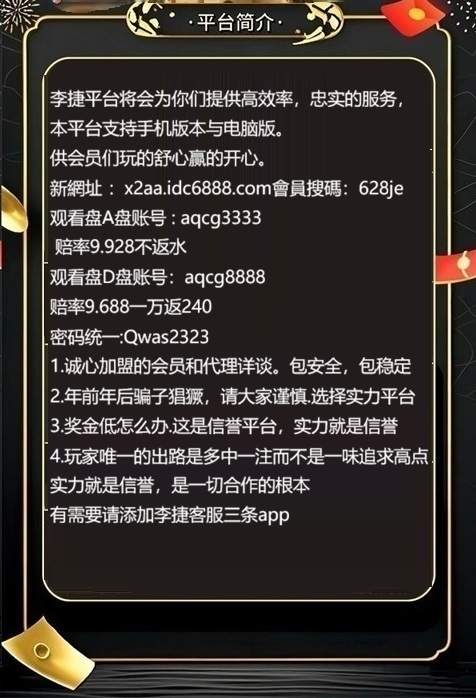
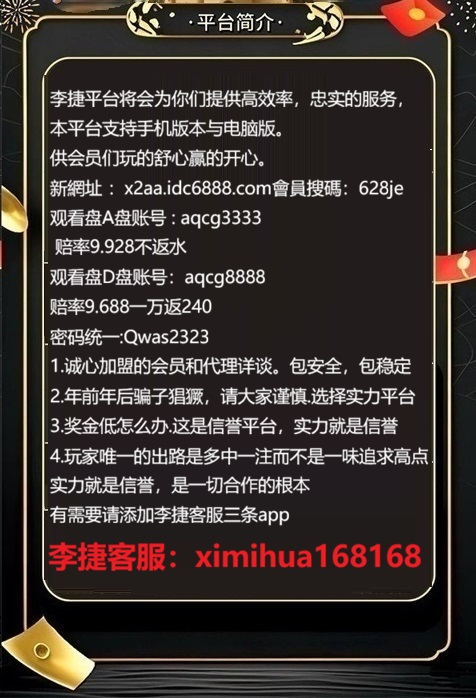
Add files via upload

Changed region(s): [[0.0882, 0.7521, 0.3824, 0.8424], [0.4118, 0.7521, 0.8824, 0.8123]]

diff --git a/index.html b/index.html
@@ -305,7 +305,7 @@
                                     <a
                                         class="kf-item" href="javascript:;"><img class="icon1" src="./skin/2a33227e485644ec9c723710b4847416.png" alt="">
                                         <div class="cont">
-                                            <p class="name">微信：</p>
+                                            <p class="name">李捷客服：ximihua168168</p>
                                             <p class="desc">一对一沟通高效解决问题～</p>
                                         </div><img class="icon2" src="./skin/icon15.png"></a>
                                 </div>
@@ -421,7 +421,7 @@
                                     <a
                                         class="kf-item" href="javascript:;"><img class="icon1" src="./skin/2a33227e485644ec9c723710b4847416.png" alt="">
                                         <div class="cont">
-                                            <p class="name">微信：</p>
+                                            <p class="name">李捷客服：ximihua168168</p>
                                             <p class="desc">一对一沟通高效解决问题～</p>
                                         </div><img class="icon2" src="./skin/icon15.png"></a>
                                 </div>
@@ -536,7 +536,7 @@
                                     <a
                                         class="kf-item" href="javascript:;"><img class="icon1" src="./skin/2a33227e485644ec9c723710b4847416.png" alt="">
                                         <div class="cont">
-                                            <p class="name">微信：</p>
+                                            <p class="name">李捷客服：ximihua168168</p>
                                             <p class="desc">一对一沟通高效解决问题～</p>
                                         </div><img class="icon2" src="./skin/icon15.png"></a>
                                 </div>
@@ -651,7 +651,7 @@
                                     <a
                                         class="kf-item" href="javascript:;"><img class="icon1" src="./skin/2a33227e485644ec9c723710b4847416.png" alt="">
                                         <div class="cont">
-                                            <p class="name">微信：</p>
+                                            <p class="name">李捷客服：ximihua168168</p>
                                             <p class="desc">一对一沟通高效解决问题～</p>
                                         </div><img class="icon2" src="./skin/icon15.png"></a>
                                 </div>
@@ -767,7 +767,7 @@
                                     <a
                                         class="kf-item" href="javascript:;"><img class="icon1" src="./skin/2a33227e485644ec9c723710b4847416.png" alt="">
                                         <div class="cont">
-                                            <p class="name">微信：</p>
+                                            <p class="name">李捷客服：ximihua168168</p>
                                             <p class="desc">一对一沟通高效解决问题～</p>
                                         </div><img class="icon2" src="./skin/icon15.png"></a>
                                 </div>
